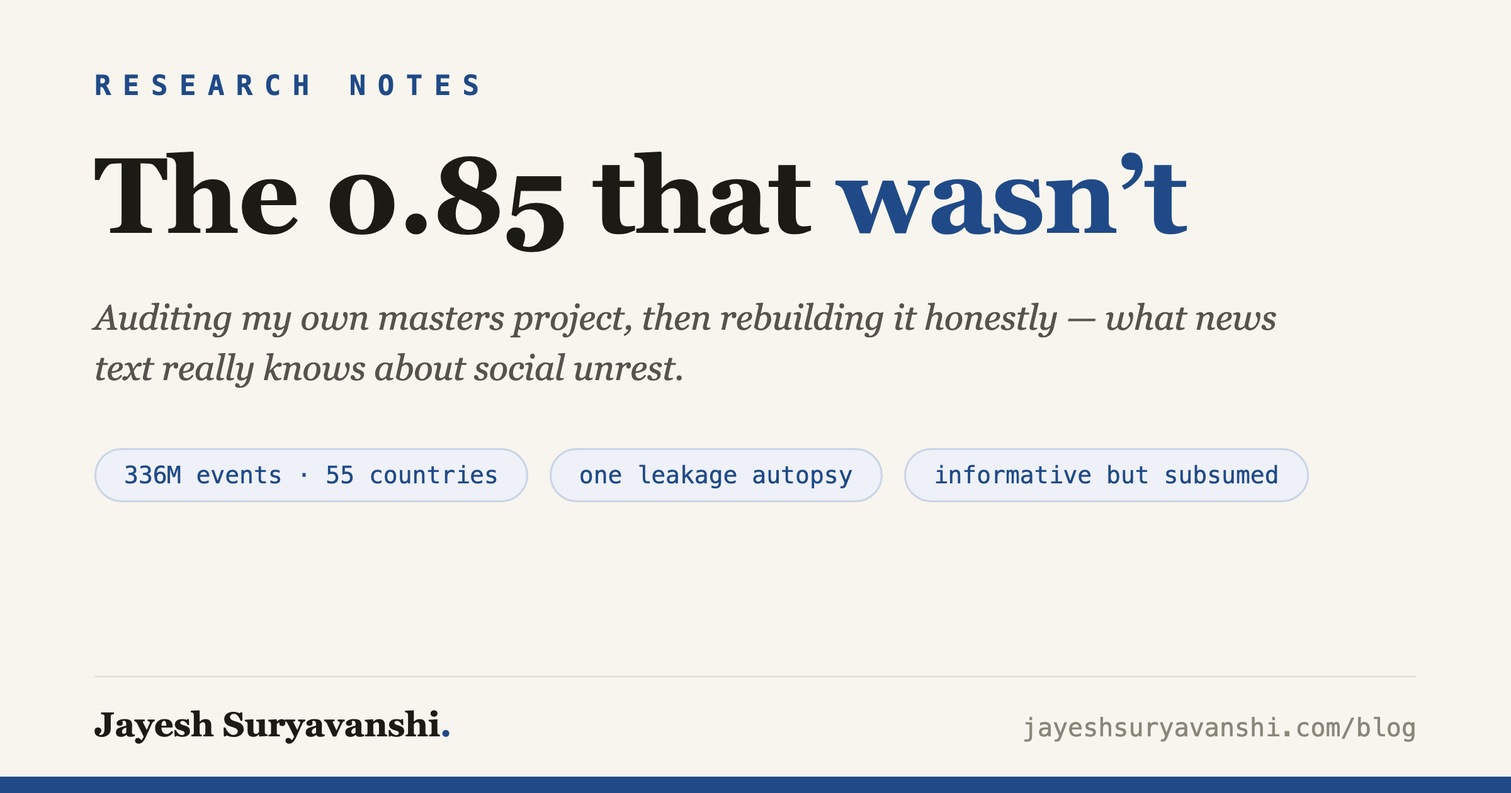
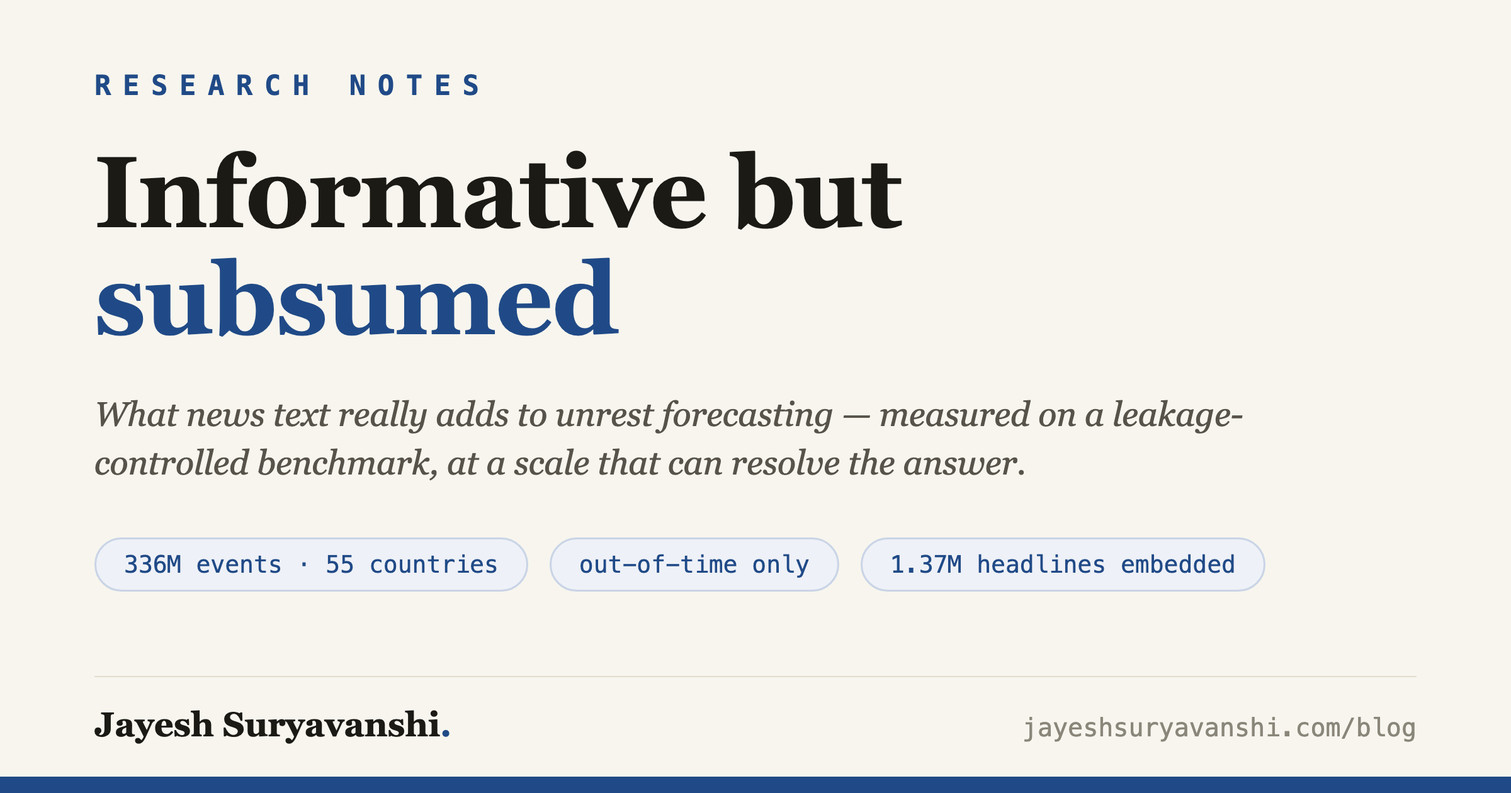
Rewrite 'Informative but subsumed' for a technical ML audience (impersonal framing)

diff --git a/blog/subsumed-signal.html b/blog/subsumed-signal.html
@@ -2,27 +2,27 @@
 <html lang="en">
 <head>
   <meta charset="utf-8">
-  <title>The 0.85 that wasn't — Jayesh Suryavanshi</title>
-  <meta name="description" content="I rebuilt my masters project to find out what news text really knows about social unrest. One leakage autopsy, 336 million events, and 55 countries later: news semantics are subsumed by the event record — and the honest effect is 100× smaller than my 2022 self believed.">
+  <title>Informative but subsumed — Jayesh Suryavanshi</title>
+  <meta name="description" content="What news text really adds to unrest forecasting, measured properly: 336M events, 55 countries, leakage-controlled out-of-time backtests, and a signal ladder from tone counts to neural headline embeddings. The semantics of news are already in the event record.">
   <meta name="author" content="Jayesh Suryavanshi">
   <link rel="canonical" href="https://www.jayeshsuryavanshi.com/blog/subsumed-signal.html">
 
   <meta property="og:type" content="article">
   <meta property="og:url" content="https://www.jayeshsuryavanshi.com/blog/subsumed-signal.html">
   <meta property="og:site_name" content="Jayesh Suryavanshi">
-  <meta property="og:title" content="The 0.85 that wasn't">
-  <meta property="og:description" content="Rebuilding my masters project honestly: what news text really adds to unrest forecasting, measured across 336M events and 55 countries.">
+  <meta property="og:title" content="Informative but subsumed">
+  <meta property="og:description" content="What news text really adds to unrest forecasting: 336M events, 55 countries, leakage-controlled evaluation, and a text-signal ladder up to neural embeddings.">
   <meta property="og:image" content="https://www.jayeshsuryavanshi.com/images/og-subsumed.png">
   <meta property="og:image:width" content="2400">
   <meta property="og:image:height" content="1260">
-  <meta property="og:image:alt" content="The 0.85 that wasn't — a study by Jayesh Suryavanshi">
+  <meta property="og:image:alt" content="Informative but subsumed — a study by Jayesh Suryavanshi">
   <meta property="article:published_time" content="2026-07-26">
 
   <meta name="twitter:card" content="summary_large_image">
   <meta name="twitter:site" content="@2jayesh3">
   <meta name="twitter:creator" content="@2jayesh3">
-  <meta name="twitter:title" content="The 0.85 that wasn't">
-  <meta name="twitter:description" content="What news text really adds to unrest forecasting: a leakage autopsy of my own masters project, then the honest rebuild at scale.">
+  <meta name="twitter:title" content="Informative but subsumed">
+  <meta name="twitter:description" content="What news text really adds to unrest forecasting: 336M events, 55 countries, and a text-signal ladder up to neural embeddings.">
   <meta name="twitter:image" content="https://www.jayeshsuryavanshi.com/images/og-subsumed.png">
 
   <meta name="viewport" content="width=device-width, initial-scale=1">
@@ -49,8 +49,8 @@
 
     <article>
       <p class="kicker">Research Notes</p>
-      <h1 class="title">The 0.85 that wasn&rsquo;t</h1>
-      <p class="dek">In 2022 my masters project claimed it could predict social unrest from news with 85% accuracy. This month I audited it, found the number was an artifact, and rebuilt the whole question honestly &mdash; 336&nbsp;million events, 55&nbsp;countries, every rung of the text ladder. What news actually knows turned out to be stranger than what I claimed.</p>
+      <h1 class="title">Informative but subsumed</h1>
+      <p class="dek">Does news text help forecast social unrest? The literature answers everything from &ldquo;transformative&rdquo; to &ldquo;nothing beats a no-change baseline.&rdquo; I measured it properly: 336&nbsp;million events, 55&nbsp;countries, leakage-controlled out-of-time evaluation, and a text-signal ladder from tone counts up to neural embeddings of 1.37&nbsp;million headlines. The answer is small, precise, and stranger than either camp claims.</p>
       <div class="byline">
         <span>By <strong>Jayesh Suryavanshi</strong></span>
         <span class="sep">&middot;</span>
@@ -61,60 +61,60 @@
 
       <div class="prose">
 
-        <h2>The confession</h2>
-        <p>Four years ago, for an NLP course at Buffalo, my team built a pipeline that downloaded news articles, matched them to conflict events from <a href="https://acleddata.com/">ACLED</a>, and trained a classifier that scored <strong>0.85 accuracy</strong> at &ldquo;predicting social unrest.&rdquo; We reported a five-day warning lead time. It went on my r&eacute;sum&eacute;.</p>
-        <p>This month I went back and read my own notebooks the way I&rsquo;d review a stranger&rsquo;s. The label for each article had been constructed by <em>cosine-matching the article&rsquo;s text against ACLED event descriptions</em> &mdash; and then the model was trained to recover that label <em>from the same text</em>, evaluated on a random split. The classifier had learned that articles about protests contain protest words. The &ldquo;five-day lead&rdquo; came from a filter that only kept article&ndash;event pairs where the article came first. The 0.85 measured nothing about the future.<span class="sn-ref">1</span></p>
-        <aside class="sidenote"><span class="sn-num">1</span>This failure mode &mdash; target leakage through label construction &mdash; is endemic in applied ML, and it&rsquo;s exactly what Kapoor &amp; Narayanan&rsquo;s reproducibility work warns about. I just happened to own a textbook specimen.</aside>
-        <p>The interesting question wasn&rsquo;t whether my course project was wrong. It was: <strong>strip away the leakage &mdash; what does news text actually know about upcoming unrest?</strong> The literature disagrees violently: some groups report that newspaper topics predict conflict onset; forecasting competitions keep finding that nothing beats &ldquo;assume next month looks like this month.&rdquo; So I rebuilt the question from scratch, with the discipline my 2022 self skipped.</p>
+        <h2>Why the literature disagrees</h2>
+        <p>Text-based conflict forecasting has a reproducibility problem hiding in plain sight. On one side, well-cited work reports that newspaper topics carry real predictive signal for political violence. On the other, every major forecasting competition in the space keeps reaching the same deflating conclusion: almost nothing beats &ldquo;assume next month looks like this month.&rdquo; Both camps publish plausible numbers. They can&rsquo;t both be right at face value.</p>
+        <p>Part of the gap is evaluation hygiene. A construction you&rsquo;ll find in more than one applied pipeline: label news articles by their similarity to descriptions of known events, then train a classifier to predict that label <em>from the same text</em>, validated on a random split. Pipelines like that produce accuracies in the 0.8&ndash;0.9 range and forecast nothing &mdash; the label is a function of the input, so the model just re-derives the labeling rule.<span class="sn-ref">1</span> I audited one such pipeline in detail as the starting point for this work; its headline number dissolved entirely under a temporal split with an independent label.</p>
+        <aside class="sidenote"><span class="sn-num">1</span>Target leakage through label construction &mdash; the failure mode at the heart of Kapoor &amp; Narayanan&rsquo;s work on the reproducibility crisis in ML-based science. Rare-event forecasting is unusually good at hiding it, because accuracy looks great when 96% of your labels are the majority class anyway.</aside>
+        <p>But hygiene isn&rsquo;t the whole story &mdash; clean studies disagree too. So the real question became: <strong>strip away the leakage and the underpowered designs &mdash; what does news text actually contribute, measured on one benchmark, under one protocol, at a scale that can resolve small effects?</strong></p>
 
-        <h2>The rebuild: rules first, models second</h2>
-        <p>Everything runs on complete unit&times;period grids (994 admin-1 regions across 55 countries, monthly, on <a href="https://ucdp.uu.se/">UCDP</a> data; plus an ACLED India state&times;week track), with three frozen targets: <em>occurrence</em> (any violence next period), <em>escalation</em> (a spike above the region&rsquo;s own recent norm), and <em>onset</em> &mdash; violence erupting in a region that&rsquo;s been calm for two years, the case that actually matters for early warning. Four rules, learned the hard way:</p>
+        <h2>The setup: rules first, models second</h2>
+        <p>Everything runs on complete unit&times;period grids &mdash; 994 admin-1 regions across 55 countries, monthly, on <a href="https://ucdp.uu.se/">UCDP</a> ground truth (plus an <a href="https://acleddata.com/">ACLED</a> state&times;week track for high-resolution replication) &mdash; with three frozen targets: <em>occurrence</em> (any violence next period), <em>escalation</em> (a spike above the region&rsquo;s own trailing norm), and <em>onset</em> &mdash; violence erupting in a region calm for two years, the regime early-warning systems exist for. Four protocol rules do the heavy lifting:</p>
         <ul>
-          <li><strong>Out-of-time only.</strong> Rolling-origin backtests &mdash; train on the past, score the strictly-unseen future, refit as the window expands. Never a random split, because that&rsquo;s how you get 0.85s.</li>
-          <li><strong>Beat the boring baselines or say so.</strong> Persistence and per-region climatology are reported everywhere. Accuracy is banned: with base rates of 2&ndash;20%, a model that predicts &ldquo;nothing happens&rdquo; scores 80&ndash;98%.</li>
-          <li><strong>Two model families, always.</strong> A random forest and a regularized linear model must agree on the <em>sign</em> of any effect before it counts. This rule exists because an earlier version of my own analysis produced a &ldquo;statistically significant&rdquo; negative that flipped positive the moment I regularized.<span class="sn-ref">2</span></li>
-          <li><strong>Confidence intervals from saved predictions.</strong> Every marginal gets a block bootstrap over test periods, recomputable by anyone from the released per-row predictions.</li>
+          <li><strong>Out-of-time only.</strong> Rolling-origin backtests: train on the past, score the strictly-unseen future, refit as the window expands. Random splits are banned &mdash; they&rsquo;re how time-series data lies to you.</li>
+          <li><strong>Beat the boring baselines or say so.</strong> Persistence and per-region climatology are always reported. Accuracy is banned outright: at base rates of 2&ndash;20%, predicting &ldquo;nothing happens&rdquo; scores 80&ndash;98%.</li>
+          <li><strong>Two model families, always.</strong> A tree ensemble and a regularized linear model must agree on the <em>sign</em> of an effect before it counts. This rule exists because an earlier iteration of this analysis produced a &ldquo;significant&rdquo; negative marginal that flipped positive under regularization &mdash; a pure artifact of 90+ features against ~140 positives.<span class="sn-ref">2</span></li>
+          <li><strong>Confidence intervals from released predictions.</strong> Every marginal gets a block bootstrap over test periods, recomputable by anyone from the per-row prediction files shipped with the benchmark.</li>
         </ul>
-        <aside class="sidenote"><span class="sn-num">2</span>Tree ensembles fed 90+ features against ~140 positives will happily manufacture signed artifacts. If your headline effect is model-conditional, you don&rsquo;t have a headline &mdash; you have a hyperparameter.</aside>
+        <aside class="sidenote"><span class="sn-num">2</span>If your headline effect is model-conditional, you don&rsquo;t have a headline &mdash; you have a hyperparameter. Dual-family agreement is cheap insurance every ablation study should carry.</aside>
 
         <h2>What&rsquo;s forecastable at all</h2>
         <figure>
           <img src="../images/subsumed-regime-map.png" alt="Dot plot: AUPRC by regime and scorer on a log scale. Occurrence ~0.8, escalation ~0.18, onset ~0.025 barely above its 0.018 base rate." loading="lazy">
-          <figcaption>The regime map. Out-of-time AUPRC (log scale) across 87,000+ test region-months. Dotted marks are base rates &mdash; the score a no-skill model gets. Onset is the cliff on the right.</figcaption>
+          <figcaption>The regime map. Out-of-time AUPRC (log scale) across 87,000+ test region-months. Dotted marks are base rates &mdash; the score of a no-skill model. Onset is the cliff on the right.</figcaption>
         </figure>
-        <p>Skill collapses by an order of magnitude at each step. <em>Where violence already burns</em>, next month is very learnable (0.80 AUPRC against a 0.53 persistence baseline). <em>Whether it spikes</em> is much harder but real (0.175 vs 0.107). And <em>onset</em> &mdash; eruption after two calm years &mdash; is close to unforecastable for everything I tested: the best model reaches 0.025 against a 0.018 base rate, and persistence is <em>completely blind</em> there by construction, since every region in the risk set looks identical to it. The case early-warning systems exist for is the case nobody can call.</p>
+        <p>Skill collapses by an order of magnitude at each step. <em>Where violence already burns</em>, next month is very learnable (0.80 AUPRC against a 0.53 persistence baseline). <em>Whether it spikes</em> is much harder but real (0.175 vs 0.107). And <em>onset</em> &mdash; eruption after two calm years &mdash; is close to unforecastable for everything tested: the best model reaches 0.025 against a 0.018 base rate, and persistence is <em>completely blind</em> there by construction, since every region in the risk set looks identical to it. The case that matters most is the case nobody can call.</p>
 
         <h2>The text ladder</h2>
-        <p>Onto that scaffold I bolted every text signal I could construct from news, in increasing order of depth: GDELT&rsquo;s machine-coded tone and article volume; its thematic tags; topic models over event narratives; precipitation anomalies as a non-news control; and finally &mdash; because &ldquo;your text signals were too shallow&rdquo; is the correct objection to everything above &mdash; <strong>neural sentence embeddings of 1.37&nbsp;million human-written headlines</strong>, harvested from the URL slugs of the 336&nbsp;million GDELT events I&rsquo;d joined to the panel by pure geography.<span class="sn-ref">3</span></p>
-        <aside class="sidenote"><span class="sn-num">3</span>No name-matching between datasets &mdash; every event is assigned to the nearest region centroid by great-circle distance, 200&nbsp;km cap. The embedding representation is fitted on pre-2017 months only, so no test-era text shapes the features.</aside>
+        <p>Onto that scaffold goes every text signal constructible from open news data, in increasing order of representational depth: GDELT&rsquo;s machine-coded tone and article volume; its thematic tags; topic models over event narratives; precipitation anomalies as a non-news control; and &mdash; because &ldquo;your text signals were too shallow&rdquo; is the correct objection to everything above &mdash; <strong>neural sentence embeddings of 1.37&nbsp;million human-written headlines</strong>, harvested from the URL slugs of the 336&nbsp;million GDELT events joined to the panel by pure geography.<span class="sn-ref">3</span></p>
+        <aside class="sidenote"><span class="sn-num">3</span>No name-matching between datasets &mdash; each event is assigned to the nearest region centroid by great-circle distance with a 200&nbsp;km cap. The embedding representation (pooling + PCA) is fitted on pre-2017 months only, so no test-era text shapes the features.</aside>
         <figure>
           <img src="../images/subsumed-forest.png" alt="Forest plot of news-text marginal AUPRC with confidence intervals: six tight multi-country intervals near zero (escalation just above), two much wider single-country intervals." loading="lazy">
-          <figcaption>What text adds on top of event history, with 90% block-bootstrap CIs. Green: the only regime where both model families agree it&rsquo;s positive. Gray: my single-country India intervals &mdash; wide enough to hide the true effect entirely.</figcaption>
+          <figcaption>What text adds on top of event history, with 90% block-bootstrap CIs. Green: the only regime where both model families agree it&rsquo;s positive. Gray: single-country intervals on the same axis &mdash; wide enough to hide the true effect entirely.</figcaption>
         </figure>
-        <p>Three results, and I&rsquo;d defend each at gunpoint:</p>
-        <p><strong>1. Text&rsquo;s real complement is tiny, but it exists.</strong> On escalation, adding news signals to event history is worth <strong>+0.3 to +0.6 points of AUPRC</strong> &mdash; significant in both model families, surviving 95% intervals, four alternative label definitions, and a robustness grid. That&rsquo;s roughly 2&ndash;4% relative improvement. It is also about <em>a hundred times smaller</em> than what my leaky 2022 evaluation implied.</p>
-        <p><strong>2. Single-country studies can&rsquo;t see it.</strong> My India-only intervals were &plusmn;0.03 wide &mdash; a &plusmn;0.005 effect is invisible at that scale. It took 87,000 test region-months across 55 countries to resolve the effect at all. I suspect this explains a good chunk of why the literature disagrees: everyone is measuring the same small number with instruments of wildly different power.</p>
-        <p><strong>3. The part of news that helps isn&rsquo;t the part you&rsquo;d think.</strong> This is the finding I didn&rsquo;t expect. The embeddings &mdash; the <em>richest</em> representation, the one that beats every machine-coded signal as a standalone predictor (0.105 vs 0.085) &mdash; add <em>nothing</em> on top of event history. Null in both families. What carries the small complement is the <em>count-like</em> content of news streams: how much is being reported, where, how often. The <em>semantic</em> content &mdash; what the articles actually say &mdash; is precisely what the event record already encodes. <strong>News semantics are subsumed; news arithmetic is not.</strong></p>
+        <p>Three results, each of which survived label-sensitivity sweeps, dual-family checks, and 95% intervals:</p>
+        <p><strong>1. Text&rsquo;s real complement is tiny, but it exists.</strong> On escalation, adding news signals to event history is worth <strong>+0.3 to +0.6 points of AUPRC</strong> &mdash; significant in both model families, robust across four alternative label definitions. Roughly a 2&ndash;4% relative improvement. For calibration: that&rsquo;s about two orders of magnitude smaller than what the leaky pipeline designs in this space imply.</p>
+        <p><strong>2. Single-country studies cannot see it.</strong> Single-country confidence intervals in the high-resolution replication ran &plusmn;0.03 wide &mdash; a &plusmn;0.005 effect is invisible at that scale. Resolving it took 87,000 test region-months across 55 countries. This is, I suspect, a large piece of why the literature disagrees: the same small number, measured with instruments of wildly different power, reads as &ldquo;text works&rdquo; in one design and &ldquo;text is useless&rdquo; in another.</p>
+        <p><strong>3. The part of news that helps isn&rsquo;t the part you&rsquo;d think.</strong> The embeddings &mdash; the richest representation on the ladder, and the best <em>standalone</em> text predictor (0.105 vs 0.085 for machine-coded counts) &mdash; add <em>nothing</em> on top of event history. Null in both families. What carries the small complement is the <em>count-like</em> content of news streams: how much is being reported, where, how often. The <em>semantic</em> content &mdash; what the articles actually say &mdash; is precisely what a curated event record already encodes. <strong>News semantics are subsumed; news arithmetic is not.</strong></p>
 
         <div class="callout">
           <div class="label">And onset?</div>
-          <p>Nothing cracks it. Not event history (1.35&times; base rate), not counts, not themes, not a million embedded headlines &mdash; null in every cell, across calm windows of one, two, and three years. The regime where the literature most hoped text would shine &mdash; where the event record is empty by definition &mdash; is the regime where everything I tested fails together. If someone tells you their system predicts eruptions in quiet regions, ask for their risk-set definition and their base rate before anything else.</p>
+          <p>Nothing cracks it. Not event history (1.35&times; base rate), not counts, not themes, not a million embedded headlines &mdash; null in every cell, across calm windows of one, two, and three years. The regime where text was most hoped to shine &mdash; where the event record is empty by definition &mdash; is where every signal family fails together. When a system claims to predict eruptions in quiet regions, the first questions to ask are its risk-set definition and its base rate.</p>
         </div>
 
-        <h2>What I&rsquo;d tell my 2022 self</h2>
+        <h2>Lessons for ML practitioners</h2>
         <ul>
-          <li><strong>Your label is your result.</strong> If the target is any function of the inputs, the model will find the function and you will find a publication-shaped artifact.</li>
-          <li><strong>Random splits are how time-series lie to you.</strong> The future must be structurally unseen &mdash; not just held out, but <em>later</em>.</li>
-          <li><strong>&ldquo;Significant&rdquo; is a property of a pipeline, not a truth.</strong> Mine flipped sign under regularization once. Now every effect needs two model families to agree before I believe it.</li>
-          <li><strong>Small true numbers beat large false ones.</strong> +0.006 with clean intervals taught me more about the world than 0.85 ever did &mdash; and it&rsquo;s the only one of the two I can build on.</li>
+          <li><strong>Your label is your result.</strong> If the target is any function of the inputs, the model will find the function, and you will find a publication-shaped artifact. Rare-event settings hide this beautifully.</li>
+          <li><strong>Random splits are how temporal data lies.</strong> The future must be structurally unseen &mdash; not just held out, but <em>later</em>. Rolling-origin evaluation should be the default, not the robustness check.</li>
+          <li><strong>&ldquo;Significant&rdquo; is a property of a pipeline, not a truth.</strong> Marginals estimated by unregularized ensembles in positives-starved regimes can flip sign under regularization. Two model families agreeing on sign is a cheap, strong filter.</li>
+          <li><strong>Power determines the literature you read.</strong> A field full of underpowered designs measuring a +0.005 effect will publish confident positives and confident nulls forever. Scale the evaluation to the effect size you&rsquo;d need to detect &mdash; or say you can&rsquo;t.</li>
         </ul>
 
         <div class="takeaways">
           <h2>Bottom line</h2>
           <ul>
             <li><strong>Unrest is forecastable where it&rsquo;s already burning, barely forecastable where it spikes, and unforecastable where it begins.</strong> An order-of-magnitude skill cliff at each step, measured out-of-time across 55 countries.</li>
-            <li><strong>News text adds a real but tiny complement to event history</strong> &mdash; +0.3&ndash;0.6 AUPRC points on escalation, family-robust, label-robust &mdash; and its source is the count-like content of coverage, not the semantics. The meaning of the news is already in the event record.</li>
-            <li><strong>The whole thing is reproducible.</strong> The benchmark, panels, per-row predictions, and every script are public: <a href="https://github.com/JayeshSuryavanshi/social-unrest-forecasting">SUB-Forecast v1.0</a>. If you think a richer text signal clears the bar my signals didn&rsquo;t &mdash; the harness is waiting.</li>
+            <li><strong>News text adds a real but tiny complement to event history</strong> &mdash; +0.3&ndash;0.6 AUPRC points on escalation, family-robust and label-robust &mdash; and its source is the count-like content of coverage, not the semantics. The meaning of the news is already in the event record.</li>
+            <li><strong>Everything is reproducible.</strong> Benchmark, panels, per-row predictions, and every script: <a href="https://github.com/JayeshSuryavanshi/social-unrest-forecasting">SUB-Forecast v1.0</a>. If you believe a richer text signal clears the bar these signals didn&rsquo;t &mdash; the harness is waiting.</li>
           </ul>
         </div>
 
@@ -126,7 +126,6 @@
             <li>Code, data &amp; released predictions: <a href="https://github.com/JayeshSuryavanshi/social-unrest-forecasting">github.com/JayeshSuryavanshi/social-unrest-forecasting</a> (benchmark spec in <code>BENCHMARK.md</code>)</li>
             <li>Ground truth &amp; signals: <a href="https://ucdp.uu.se/">UCDP GED</a> &middot; <a href="https://acleddata.com/">ACLED</a> &middot; <a href="https://www.gdeltproject.org/">The GDELT Project</a> &middot; <a href="https://open-meteo.com/">Open-Meteo</a></li>
             <li>The literature this argues with (and owes): Mueller &amp; Rauh&rsquo;s newspaper-topic conflict forecasting (APSR 2018; JEEA 2022) &middot; the ViEWS escalation-prediction competitions (Vesco et al. 2022; Hegre et al. 2025) &middot; Chadefaux &amp; Schincariol on covariates vs. autoregression (EPJ Data Science 2025) &middot; Kapoor &amp; Narayanan on leakage in ML-based science</li>
-            <li>The original 2022 course project, preserved warts-and-all: <a href="https://github.com/JayeshSuryavanshi/Social-Unrest-Prediction-NLP">Social-Unrest-Prediction-NLP</a></li>
           </ul>
         </div>
 

diff --git a/blog/index.html b/blog/index.html
@@ -43,8 +43,8 @@
       <li>
         <a class="card" href="subsumed-signal.html">
           <div class="p-meta">Research Notes · Jul 2026</div>
-          <h2 class="p-title">The 0.85 that wasn&rsquo;t</h2>
-          <p class="p-dek">My masters project claimed 85% accuracy predicting unrest from news. I audited it, found label leakage, and rebuilt the question honestly across 336M events and 55 countries. What news actually knows: its semantics are subsumed by the event record — and the true effect is a hundred times smaller than I once believed.</p>
+          <h2 class="p-title">Informative but subsumed</h2>
+          <p class="p-dek">Does news text help forecast social unrest? Measured properly — 336M events, 55 countries, leakage-controlled out-of-time backtests, a signal ladder up to neural embeddings of 1.37M headlines — the answer is +0.3–0.6 AUPRC points, sourced from the arithmetic of coverage, not its semantics. The meaning of the news is already in the event record.</p>
         </a>
       </li>
       <li>
